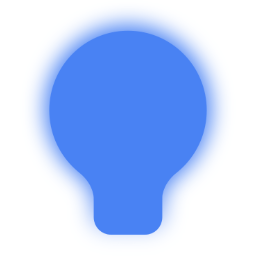
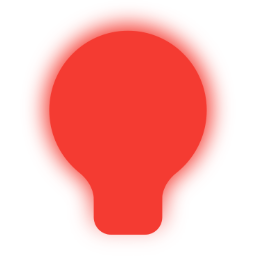
Switched colour to pink/red

diff --git a/index.html b/index.html
@@ -15,11 +15,11 @@
                 extend: {
                     colors: {
                         'turf': '#141413',
-                        'celadon': '#4982F3',
+                        'celadon': '#F43930',
                         'tea': '#141413',
                         'spruce': '#DACDB5',
                         'yellowgreen': '#B1CF5F',
-                        'brand-pink': '#4982F3',
+                        'brand-pink': '#F43930',
                     },
                     fontFamily: {
                         display: ['Space Grotesk', 'sans-serif'],
@@ -27,7 +27,7 @@
                     },
                     boxShadow: {
                         'hard': '8px 8px 0px 0px #141413',
-                        'hard-pink': '8px 8px 0px 0px #4982F3',
+                        'hard-pink': '8px 8px 0px 0px #F43930',
                         'hard-hover': '2px 2px 0px 0px #141413',
                     },
                     borderRadius: {
@@ -43,7 +43,7 @@
         ::-webkit-scrollbar { width: 12px; }
         ::-webkit-scrollbar-track { background: #DACDB5; }
         ::-webkit-scrollbar-thumb { background: #141413; border-radius: 6px; }
-        ::-webkit-scrollbar-thumb:hover { background: #4982F3; }
+        ::-webkit-scrollbar-thumb:hover { background: #F43930; }
 
         body { background-color: #DACDB5; }
     </style>
